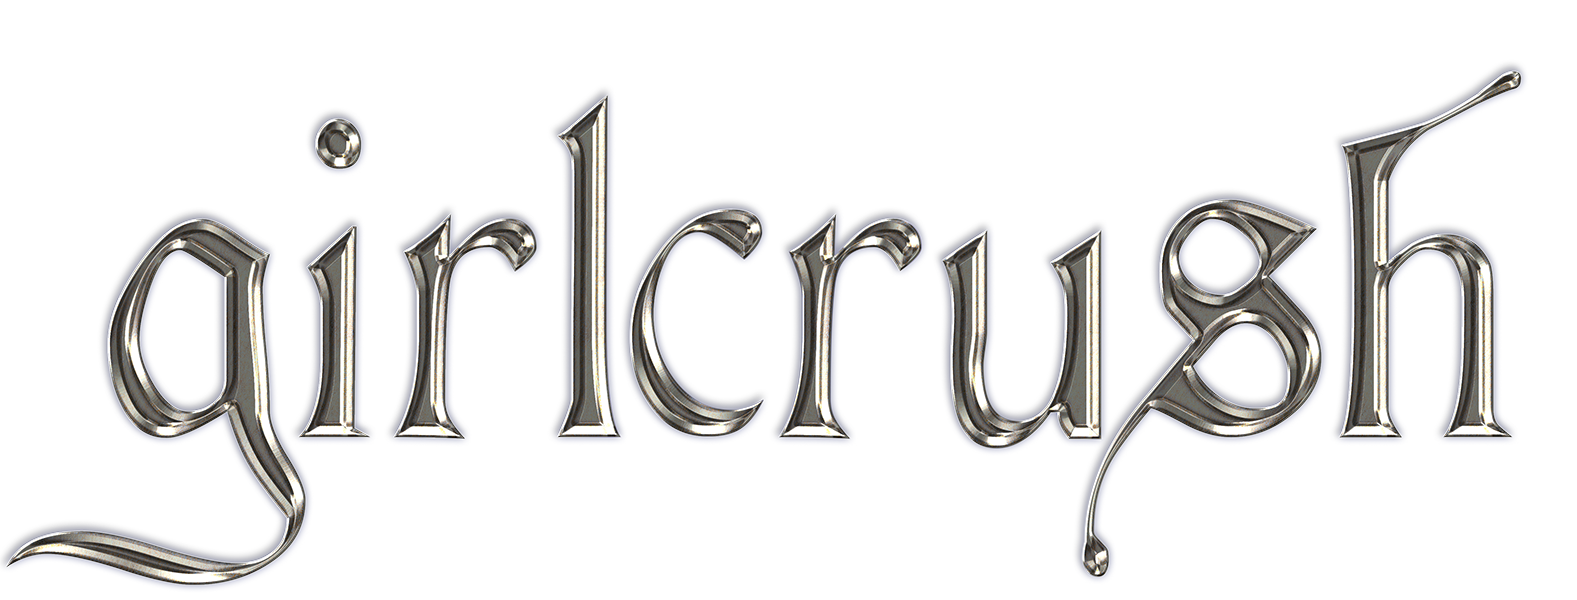
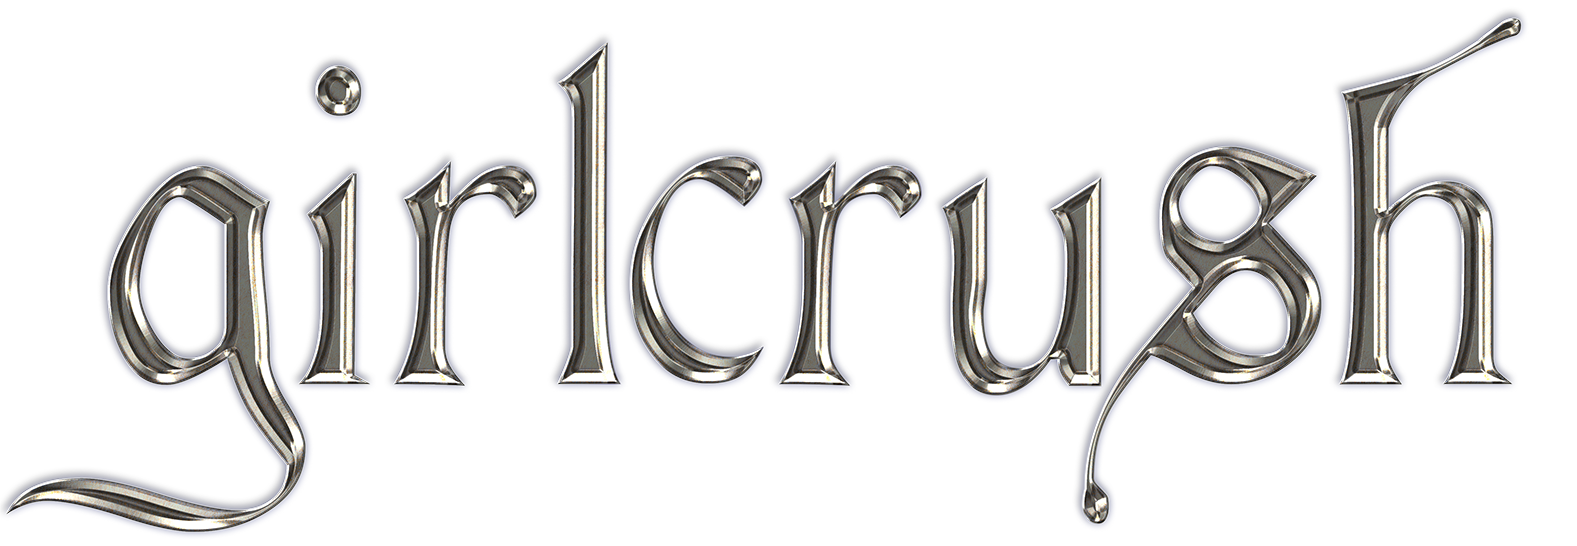
add nav bar and rearrange to fit

Changed region(s): [[0.3418, 0.0311, 0.9632, 0.9652], [0.0, 0.2802, 0.3418, 0.9963], [0.1864, 0.0934, 0.2486, 0.2802]]

diff --git a/css/base.css b/css/base.css
@@ -42,7 +42,7 @@ body {
     min-height: 100vh;
     flex-direction: column;
     justify-content: flex-start;
-    padding: 2vh 2vw;
+    padding: 70px 3vw;
     position: relative;
     overflow-y: auto;
     background:
@@ -109,7 +109,7 @@ html, body {
     /* margin-bottom: 5vh; */
     z-index: 1;
     text-align: center;
-    width: 26vw;
+    width: clamp(350px, 30vw, 500px);
     height: auto;
     transition: transform 0.3s ease, filter 0.3s ease;
 }
@@ -280,7 +280,8 @@ html, body {
     }
 
     body {
-        padding: 10px 10px 50px 10px;
+        padding: 60px 10px 50px 10px;
+        margin-bottom: 80px;
         background:
             url('../media/background/mobile.png'),
             url('../media/background/websiteBackgroundMobile2.png'),
@@ -300,12 +301,10 @@ html, body {
     }
 
     .site-title {
-        font-size: clamp(1.5rem, 10vw, 8rem);
-        word-break: break-word;
         /* padding: 0 4vw; */
         margin-top: 2px;
         margin-bottom: 10px;
-        width: 70vw;
+        width: 80vw;
         height: auto;
     }
 
@@ -351,7 +350,7 @@ html, body {
 
     #epicGif3 {
         position: absolute;
-        top: 25%;
+        top: 30%;
         left: 50%;
         height: 8%;
         width: auto;
@@ -376,8 +375,8 @@ html, body {
 
     #epicGif5 {
         position: absolute;
-        bottom: 34%;
-        left: 25%;
+        bottom: 30%;
+        left: 28%;
         right: auto;
         height: 10%;
         width: auto;

diff --git a/css/nav-bar.css b/css/nav-bar.css
@@ -1,16 +1,70 @@
 
-/* ── 11. Start Bar ── */
+/* ── 11. Nav Bar ── */
 
 .nav-bar {
     width: 100vw;
-    height: 40px;
+    height: 50px;
     display: flex;
     justify-content: center;
+    align-items: center;
     background: none;
-    position: fixed;
+    position: absolute;
     top: 0;
     left: 0;
+    gap: 6vw;
     z-index: 5000;
-    gap: 10vw;
-    padding: 10px;
+    margin-top: 1vh;
+}
+
+.nav-bar button {
+    position: relative;
+    background: none;
+    border: none;
+    width: 120px;
+    height: 40px;
+}
+
+.nav-bar button img {
+    width: 100%;
+    height: 100%;
+}
+
+.nav-bar button p {
+    position: absolute;
+    inset: 0;             /* top:0 right:0 bottom:0 left:0 */
+    display: flex;
+    align-items: center;
+    justify-content: center;
+
+    margin: 0;
+    pointer-events: none; /* prevents blocking clicks */
+    font-family: "Quicksand", sans-serif;
+    font-size: 12px;
+    color: rgb(56, 42, 70);
+
+}
+
+.nav-star-connector {
+    width: auto;
+    height: 50%;
+}
+
+/* ============================================================
+   Mobile (≤ 768px)
+   ============================================================ */
+@media (max-width: 768px) {
+    .nav-bar button {
+        width: 100px;
+        margin: 0;
+    }
+
+    .nav-bar {
+        justify-content: space-evenly;
+        gap: 0;
+    }
+
+    .nav-star-connector {
+        width: auto;
+    }
+
 }

diff --git a/base.html b/base.html
@@ -58,11 +58,22 @@
     <!-- =============================================
          NAV BAR (top taskbar)
     ============================================== -->
-    <!-- <div class="nav-bar">
-        <button>girlcrush world</button>
-        <button>music</button>
-        <button>digital journal</button>
-    </div> -->
+    <div class="nav-bar">
+        <button>
+            <p>girlcrush world</p>
+            <img src="./media/cloudLink.png">
+        </button>
+        <img class="nav-star-connector" src="media/star.png"/>
+        <button>
+            <p>music</p>
+            <img src="./media/cloudLink.png">
+        </button>
+        <img class="nav-star-connector" src="media/star.png"/>
+        <button>
+            <p>digital journal</p>
+            <img  src="./media/cloudLink.png">
+        </button>
+    </div>
 
     <!-- =============================================
          START BAR (bottom taskbar)

diff --git a/css/popups.css b/css/popups.css
@@ -13,9 +13,9 @@
 
 /* ── Popups — Individual ── */
 #welcome-popup {
-    top: min(22%, 85vh);
-    left: min(22%, 80vw);
-    width: clamp(350px, 35vw, 475px);
+    top: min(27%, 85vh);
+    left: min(30%, 80vw);
+    width: clamp(450px, 35vw, 475px);
     height: fit-content;
     min-height: 150px;
     margin-bottom: 35%;
@@ -382,7 +382,6 @@
         height: fit-content;
         max-width: 100%;
         max-height: none;
-        margin-bottom: 80px;
     }
 
     #virtual-angel-popup .popup-window {

diff --git a/css/icons.css b/css/icons.css
@@ -101,7 +101,7 @@
     }
 
     .icon-tray {
-        top: 130px;
+        top: 180px;
         left: 25px;
         position: absolute;
         height: 500px;
